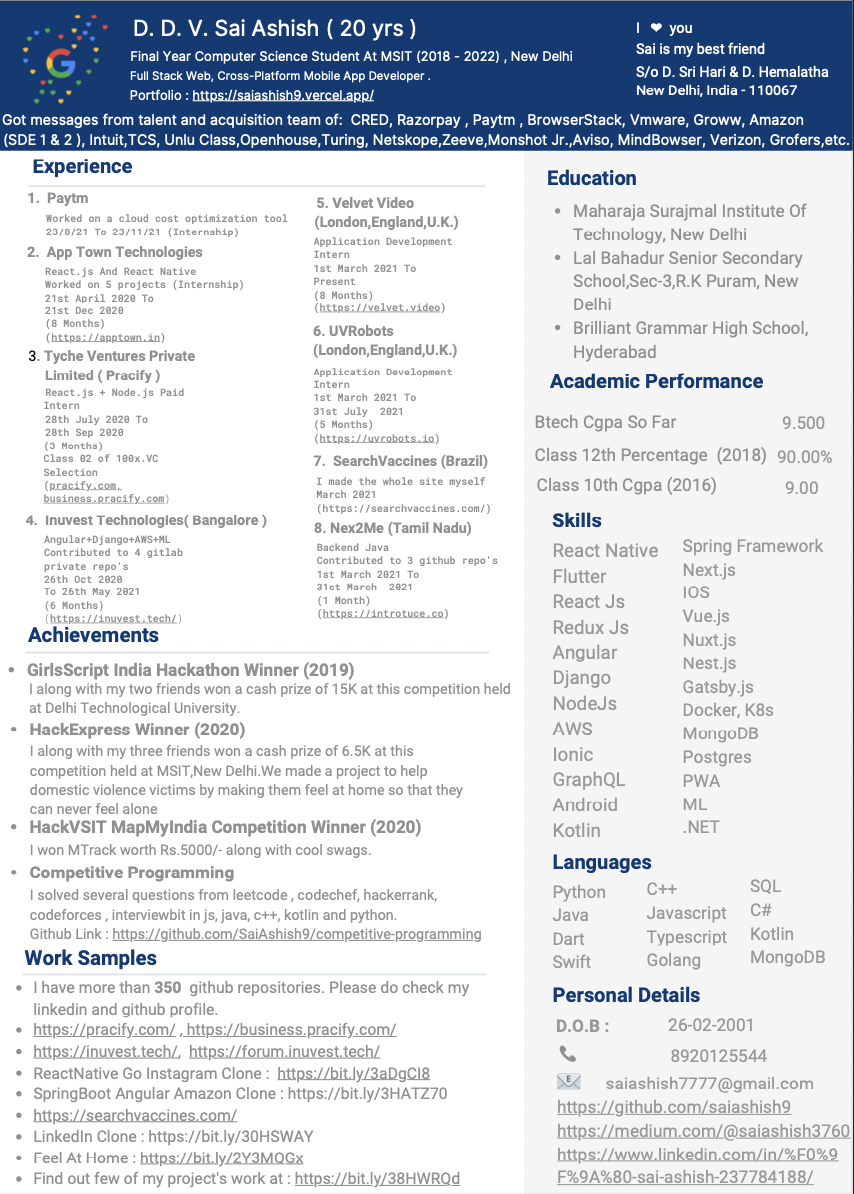
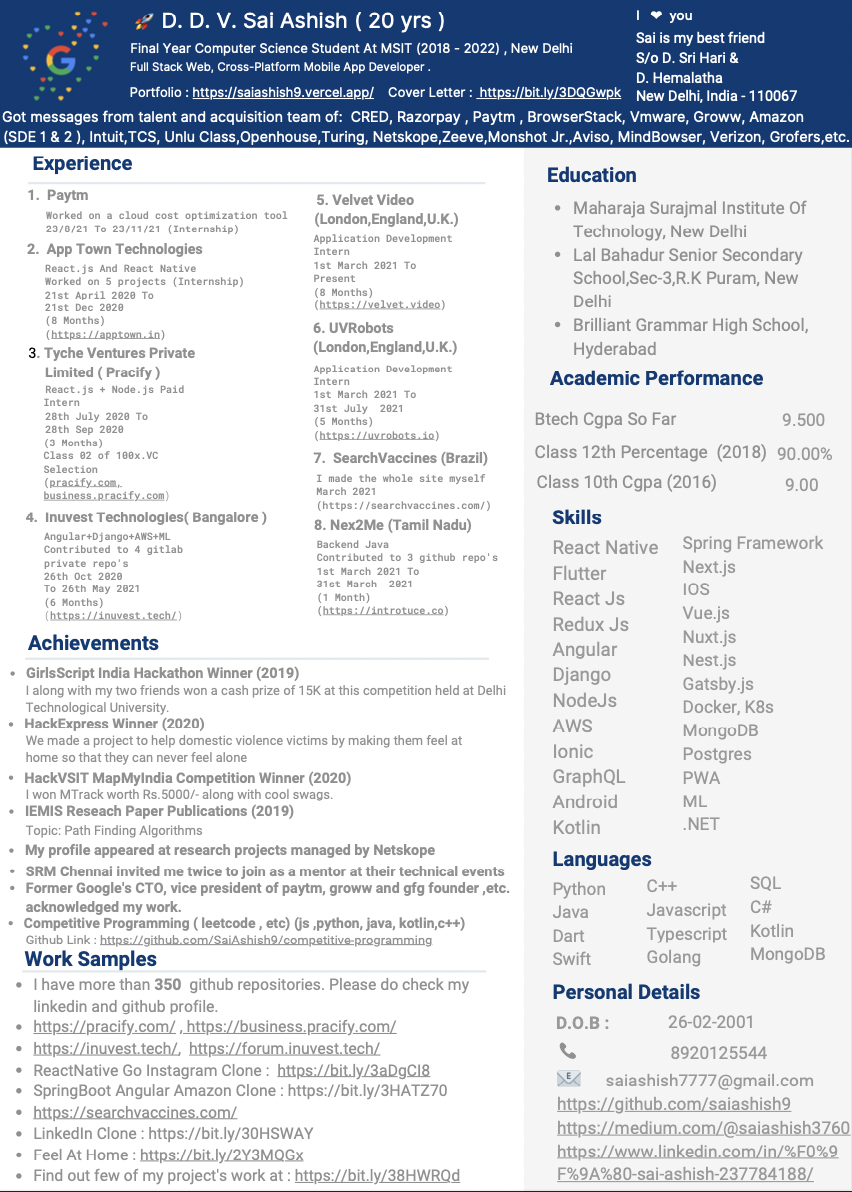
completed

Changed region(s): [[0.0, 0.0, 1.0, 1.0], [0.9765, 0.0, 1.0, 0.031]]

diff --git a/src/screens/home/components/info/index.js b/src/screens/home/components/info/index.js
@@ -15,7 +15,7 @@ import CoverLetterImg from "assets/home/cover-letter.png";
 import ResumeImg from "assets/home/resume.png";
 import AcademicsImg from "assets/home/academics.png";
 import GithubImg from "assets/home/github.png";
-import LinkedInImg from "assets/home/linkedIn.png";
+import LinkedInImg from "assets/home/linkedin.png";
 import MediumImg from "assets/home/medium.png";
 import YoutubeImg from "assets/home/youtube.png";
 import NightCodingSetupImg from "assets/home/nightCodingSetup.jpeg";
@@ -32,14 +32,14 @@ const data = [
     subTitle: "😊",
     img: CoverLetterImg,
     download: true,
-    downloadableLink: "https://www.linkedin.com/in/sai-ashish-237784188",
+    downloadableLink: "https://drive.google.com/file/d/1L98zTiG-66aEHfk8BUocVWwRMWwaj3gO/view",
   },
   {
     title: <I18n t="resume" />,
     subTitle: "❤",
     img: ResumeImg,
     download: true,
-    downloadableLink: "https://www.linkedin.com/in/sai-ashish-237784188",
+    downloadableLink: "https://drive.google.com/file/d/1n-awU1e1cUFOk0UWenlJ5IUwVEMwUHmx/view?usp=sharing",
   },
   {
     title: <I18n t="bTech" />,

diff --git a/src/common/modal/index.js b/src/common/modal/index.js
@@ -81,19 +81,18 @@ const Overlay = ({ data: selectedData, visible, setVisible, label, site }) => {
         />
       )}
       {data?.download && (
-        <Row style={{ cursor: "pointer" }}>
+        <Row
+          onClick={() => {
+            const win = window.open(
+              data?.downloadableLink,
+              "_blank"
+            );
+            win.focus();
+          }}
+          style={{ cursor: "pointer" }}
+        >
           <Download />
-          <Title
-            onClick={() => {
-              const win = window.open(
-                "https://www.linkedin.com/in/%F0%9F%9A%80-sai-ashish-237784188/",
-                "_blank"
-              );
-              win.focus();
-            }}
-          >
-            Download
-          </Title>
+          <Title>Download</Title>
         </Row>
       )}
       {site && (
